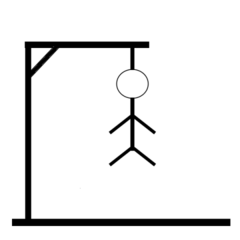
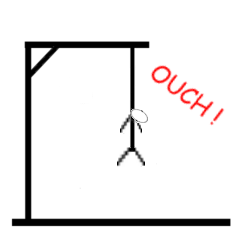
Removed the list of used characters from the webpage. Updated the 'dead' picture.

diff --git a/hangman/hangman.htm b/hangman/hangman.htm
@@ -38,7 +38,7 @@
         //Audio options.
         //pollForAudio: must be true for speech synthesis to work. 
         //If your application doesn't use speech synthesis, set this to false.
-        var audioOptions = {"pollForAudio" : false};
+        var audioOptions = {"width": "200", "height": "50", "pollForAudio" : true};
     
         //Configuration options.
         //sendIncrementalResults: if true, you'll receive "incremental" recognition results as the user speaks
@@ -61,6 +61,7 @@
         loadingDiv.parentNode.removeChild(loadingDiv);
 	     var imageDiv = document.getElementById("HangmanImage");
 	     imageDiv.style.visibility = 'visible'
+	myWamiApp.speak("Welcome to the game of Hang man.");
         startOver();
     }
 
@@ -128,8 +129,8 @@
         clearChildren(hangmanWordEl);
         hangmanWordEl.appendChild(document.createTextNode(pattern.join(' ')));
         
-        clearChildren(usedLettersEl);
-        usedLettersEl.appendChild(document.createTextNode(usedLetters.split('')));
+        //clearChildren(usedLettersEl);
+        //usedLettersEl.appendChild(document.createTextNode(usedLetters.split('')));
 
         if (guessCount == guessWord.length) {
             winner();
@@ -232,10 +233,6 @@
     height:100px;
 }
 
-#PoweredByWAMI {
-    font-size: x-small;
-}
-
 #TypedLetter {
     font-size: x-large;
     height: 30px;
@@ -312,10 +309,6 @@
           <div id="UsedLetters"></div>
           
           <br/>
-          
-          <div id="PoweredByWAMI">
-              Powered by the <a href="http://wami.csail.mit.edu/">WAMI Javascript API</a>
-          </div>
           
       </center>
    </div>
